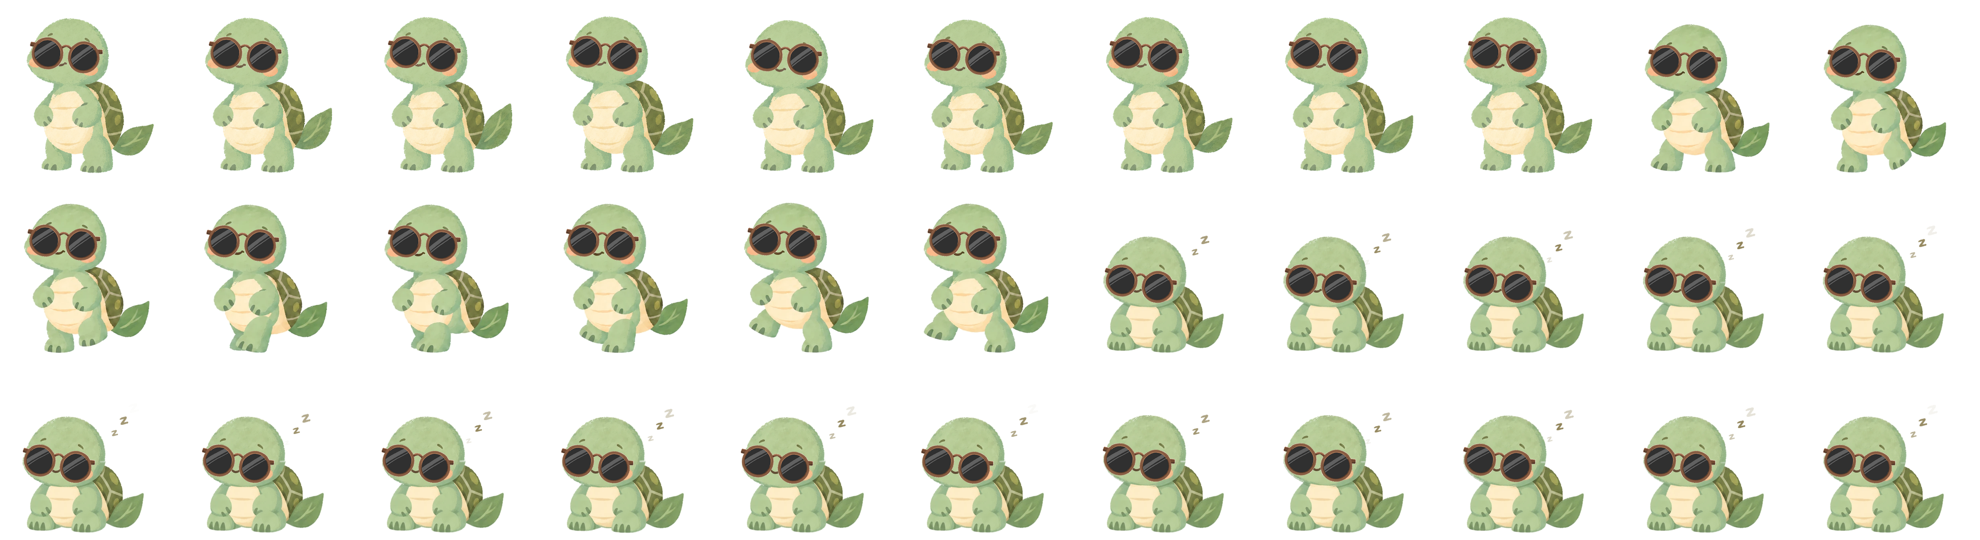
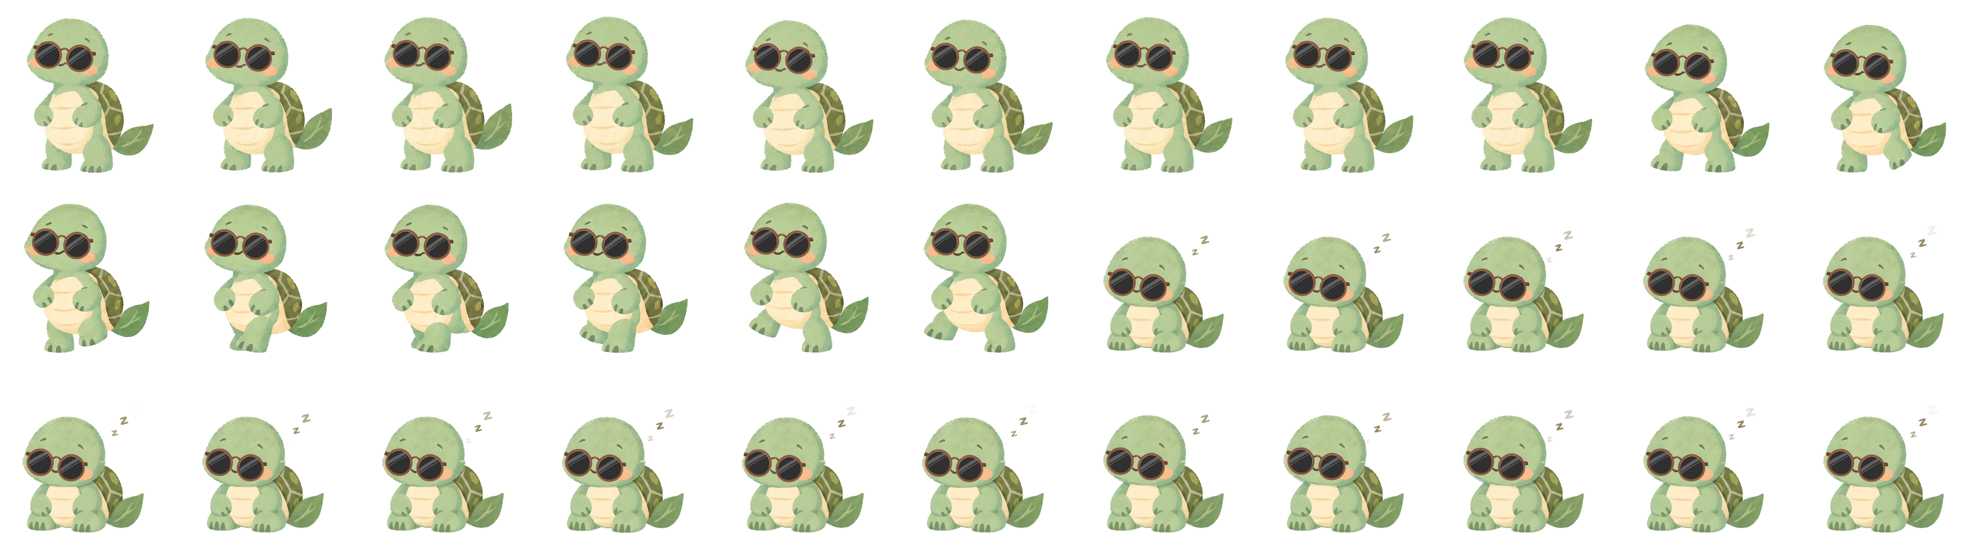
feat(equipment): apply owner-tuned turtle sunglasses fit to all states
- Keep the owner's idle size and eye offset; derive walk/sleep anchors.

diff --git a/lib/features/pet/equipment_catalog.dart b/lib/features/pet/equipment_catalog.dart
@@ -258,12 +258,13 @@ class EquipmentCatalog {
             aspectRatio: 1,
           ),
         ),
-        // Turtle eyes tilt down toward image-right; values from
+        // Turtle eyes tilt down toward image-right. Idle is the owner's Godot
+        // tuning; walk/sleep keep the same eye offset. Values from
         // design/pet_sketches/turtle_pond_buddy/sockets/fit_glasses.py.
         'turtle': EquipmentFitOverride(
-          anchor: EquipmentAnchor(x: 0.524, y: 0.21),
+          anchor: EquipmentAnchor(x: 0.55, y: 0.15),
           sizeRatio: EquipmentSize.fromWidthAspect(
-            widthRatio: 0.52,
+            widthRatio: 0.45,
             aspectRatio: 1,
           ),
           rotationDegrees: 6.4,
@@ -272,17 +273,17 @@ class EquipmentCatalog {
       petStateOverrides: {
         'turtle': EquipmentStateFitOverrides(
           walk: EquipmentFitOverride(
-            anchor: EquipmentAnchor(x: 0.535, y: 0.196),
+            anchor: EquipmentAnchor(x: 0.562, y: 0.134),
             sizeRatio: EquipmentSize.fromWidthAspect(
-              widthRatio: 0.52,
+              widthRatio: 0.45,
               aspectRatio: 1,
             ),
             rotationDegrees: 6.2,
           ),
           sleep: EquipmentFitOverride(
-            anchor: EquipmentAnchor(x: 0.556, y: 0.103),
+            anchor: EquipmentAnchor(x: 0.587, y: 0.026),
             sizeRatio: EquipmentSize.fromWidthAspect(
-              widthRatio: 0.52,
+              widthRatio: 0.45,
               aspectRatio: 1,
             ),
             rotationDegrees: 10.2,

diff --git a/design/pet_sketches/turtle_pond_buddy/sockets/fit_glasses.py b/design/pet_sketches/turtle_pond_buddy/sockets/fit_glasses.py
@@ -22,6 +22,9 @@ GLASSES = 'assets/equipment/sunglasses.png'
 LENS_L, LENS_R = (140, 222), (312, 222)   # lens centres in the 450 px glasses image
 CANVAS = 450
 STATES = {'stay': 'idle', 'moving': 'walk', 'sleep': 'sleep'}
+# Owner's Godot tuning (2026-10-05): stay looked best smaller and slightly left/lower than
+# lens-on-eye. Set to None to return to the pure lens-on-eye fit.
+OWNER_TUNE = {'state': 'stay', 'anchor': (0.55, 0.15), 'sizeRatio': 0.45}
 
 
 def eyes(rgba, hx, hy):
@@ -55,11 +58,22 @@ for anim in STATES:
 
 lens_mid = ((LENS_L[0] + LENS_R[0]) / 2 / CANVAS, (LENS_L[1] + LENS_R[1]) / 2 / CANVAS)
 lens_gap = (LENS_R[0] - LENS_L[0]) / CANVAS
-spacing = np.median([f['spacing'] for f in fits.values()])
-width_ratio = round(spacing / CANVAS / lens_gap, 2)   # one size for every state
-item = width_ratio * CANVAS
+if OWNER_TUNE:
+    # The owner tuned one state in Godot: keep that size, and keep the lens midpoint at the
+    # same offset from the eye midpoint in every other state.
+    width_ratio = OWNER_TUNE['sizeRatio']
+    item = width_ratio * CANVAS
+    ref = fits[OWNER_TUNE['state']]
+    ax, ay = OWNER_TUNE['anchor']
+    eye_offset = ((lens_mid[0] - ax) * item - ref['dx'], (lens_mid[1] - ay) * item - ref['dy'])
+else:
+    spacing = np.median([f['spacing'] for f in fits.values()])
+    width_ratio = round(spacing / CANVAS / lens_gap, 2)   # lens centres exactly on the eyes
+    item = width_ratio * CANVAS
+    eye_offset = (0.0, 0.0)
 for f in fits.values():
-    f['anchor'] = (round(lens_mid[0] - f['dx'] / item, 3), round(lens_mid[1] - f['dy'] / item, 3))
+    f['anchor'] = (round(lens_mid[0] - (f['dx'] + eye_offset[0]) / item, 3),
+                   round(lens_mid[1] - (f['dy'] + eye_offset[1]) / item, 3))
     f['rotation'] = round(f['angle'], 1)
 
 print(json.dumps({'widthRatio': width_ratio, 'fits': fits}, indent=1))

diff --git a/design/pet_sketches/turtle_pond_buddy/sockets/README.md b/design/pet_sketches/turtle_pond_buddy/sockets/README.md
@@ -39,7 +39,14 @@ sleep (7-11° as the head nods). The eyes are about 89 px apart. The new
 centre, and the flip for moving right mirrors it with the pet.
 [`fit_glasses.py`](fit_glasses.py) measures the eyes against the current head
 sockets and solves the lens-on-eye fit: width 0.52, and per-state anchors with
-rotations, now in `equipment_catalog.dart`. Its mock of the Flutter placement
+rotations, now in `equipment_catalog.dart`.
+
+The owner then tuned stay in Godot to a smaller size: anchor (0.55, 0.15) and
+size 0.45, slightly left of and below lens-on-eye. `OWNER_TUNE` in the script
+keeps that size and that offset from the eyes for every state. The results
+are idle (0.55, 0.15) at 6.4°, walk (0.562, 0.134) at 6.2° and sleep
+(0.587, 0.026) at 10.2°, written to the Godot scene JSON and
+`equipment_catalog.dart`. Its mock of the Flutter placement
 is [`review_glasses.png`](review_glasses.png).
 
 Godot now previews the tilt. The dock has a **Rotation °** field, and
